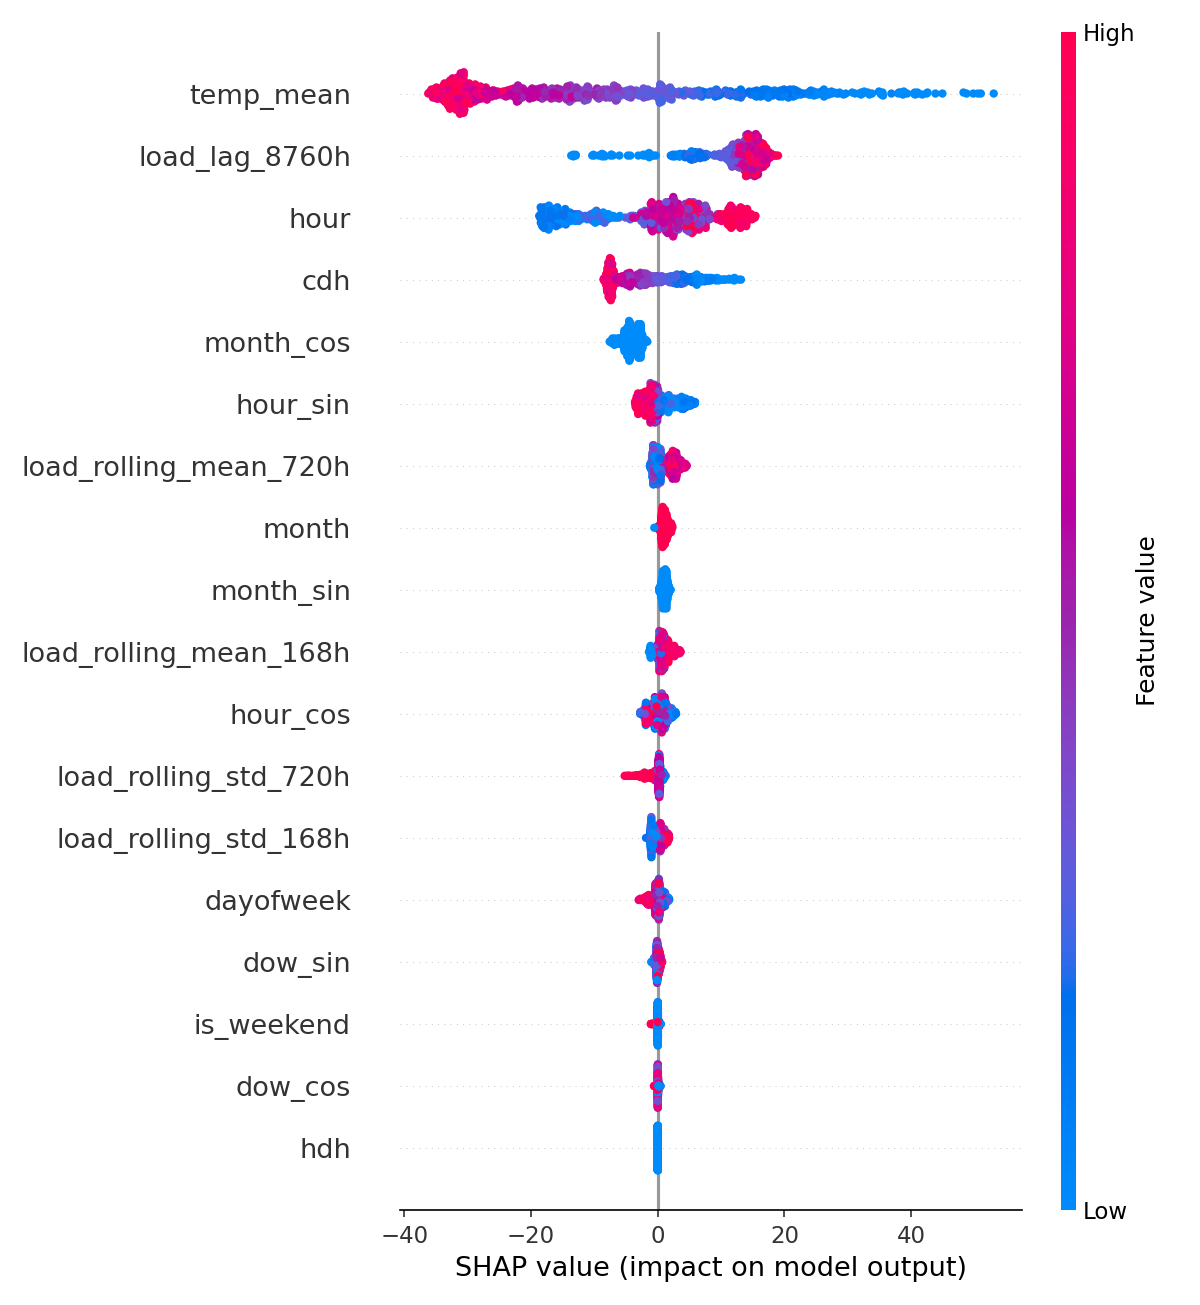
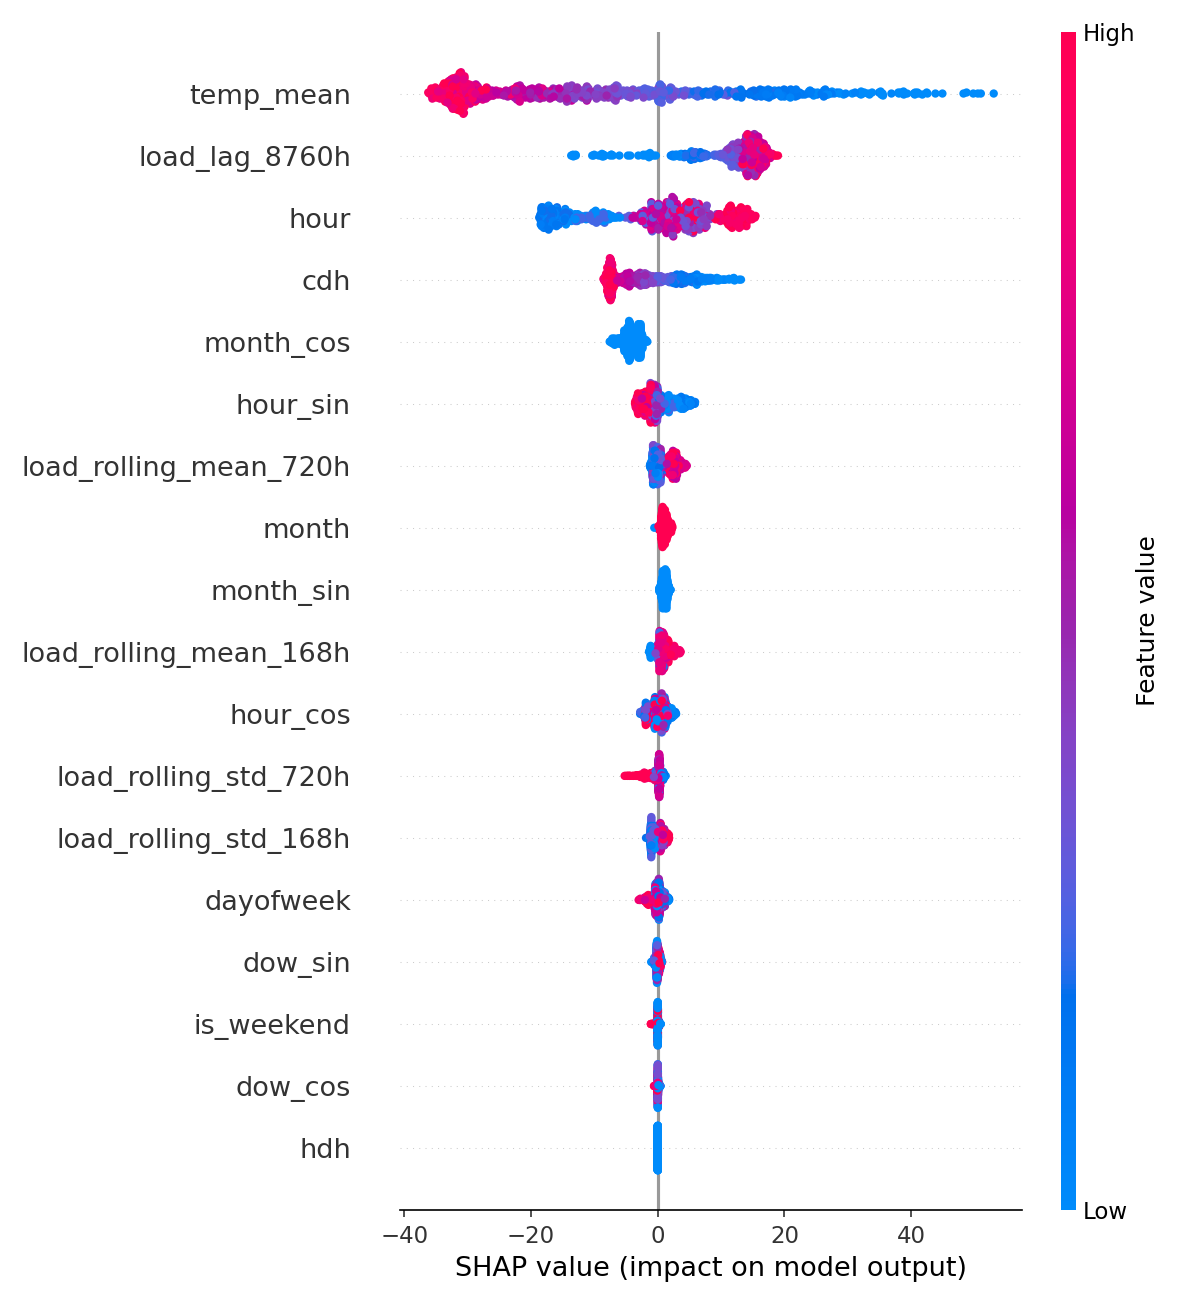
added forecasting plot for actual vs predicted series

diff --git a/run.py b/run.py
@@ -121,6 +121,29 @@ def main() -> None:
         plt.savefig(results_dir / "shap_importance_bar.png", dpi=150)
         plt.close()
 
+        # Actual vs. predicted for the last fold's test month, with 50%/90%
+        # intervals -- shows what a forecast actually looks like, not just
+        # aggregate loss/calibration numbers.
+        q50 = np.argmin(np.abs(quantiles - 0.5))
+        q05, q95 = np.argmin(np.abs(quantiles - 0.05)), np.argmin(np.abs(quantiles - 0.95))
+        q25, q75 = np.argmin(np.abs(quantiles - 0.25)), np.argmin(np.abs(quantiles - 0.75))
+        preds_lgb = lf["preds_lgb"]
+
+        fig, ax = plt.subplots(figsize=(12, 5))
+        ax.fill_between(lf["test_index"], preds_lgb[:, q05], preds_lgb[:, q95],
+                         alpha=0.2, color="C0", label="90% interval")
+        ax.fill_between(lf["test_index"], preds_lgb[:, q25], preds_lgb[:, q75],
+                         alpha=0.35, color="C0", label="50% interval")
+        ax.plot(lf["test_index"], preds_lgb[:, q50], color="C0", lw=1.2, label="Median prediction")
+        ax.plot(lf["test_index"], lf["y_true"], color="black", lw=1, label="Actual load")
+        ax.set_xlabel("Time")
+        ax.set_ylabel("Load")
+        ax.set_title("Forecast vs. actual -- last fold's test month")
+        ax.legend()
+        fig.tight_layout()
+        fig.savefig(results_dir / "forecast_example.png", dpi=150)
+        plt.close(fig)
+
     print(f"\nResults saved to {results_dir}/")
     print("Done!")
 

diff --git a/README.md b/README.md
@@ -111,6 +111,9 @@ Run `python run.py` to reproduce (99 quantiles, 15 folds):
 | Official GEFCom2014 benchmark | 15.14 +/- 7.60 |
 | LightGBM | 3.88 +/- 1.51 |
 
+`results/forecast_example.png` shows actual vs. predicted load (median + 50%/90%
+intervals) for one test month.
+
 LightGBM beats climatology and the benchmark significantly (Diebold-Mariano,
 p < 0.05) in 100% of folds -- see `results/fold_comparison.png`. Full numbers
 in `results/summary.json`, feature importance in `results/shap_summary.png`.